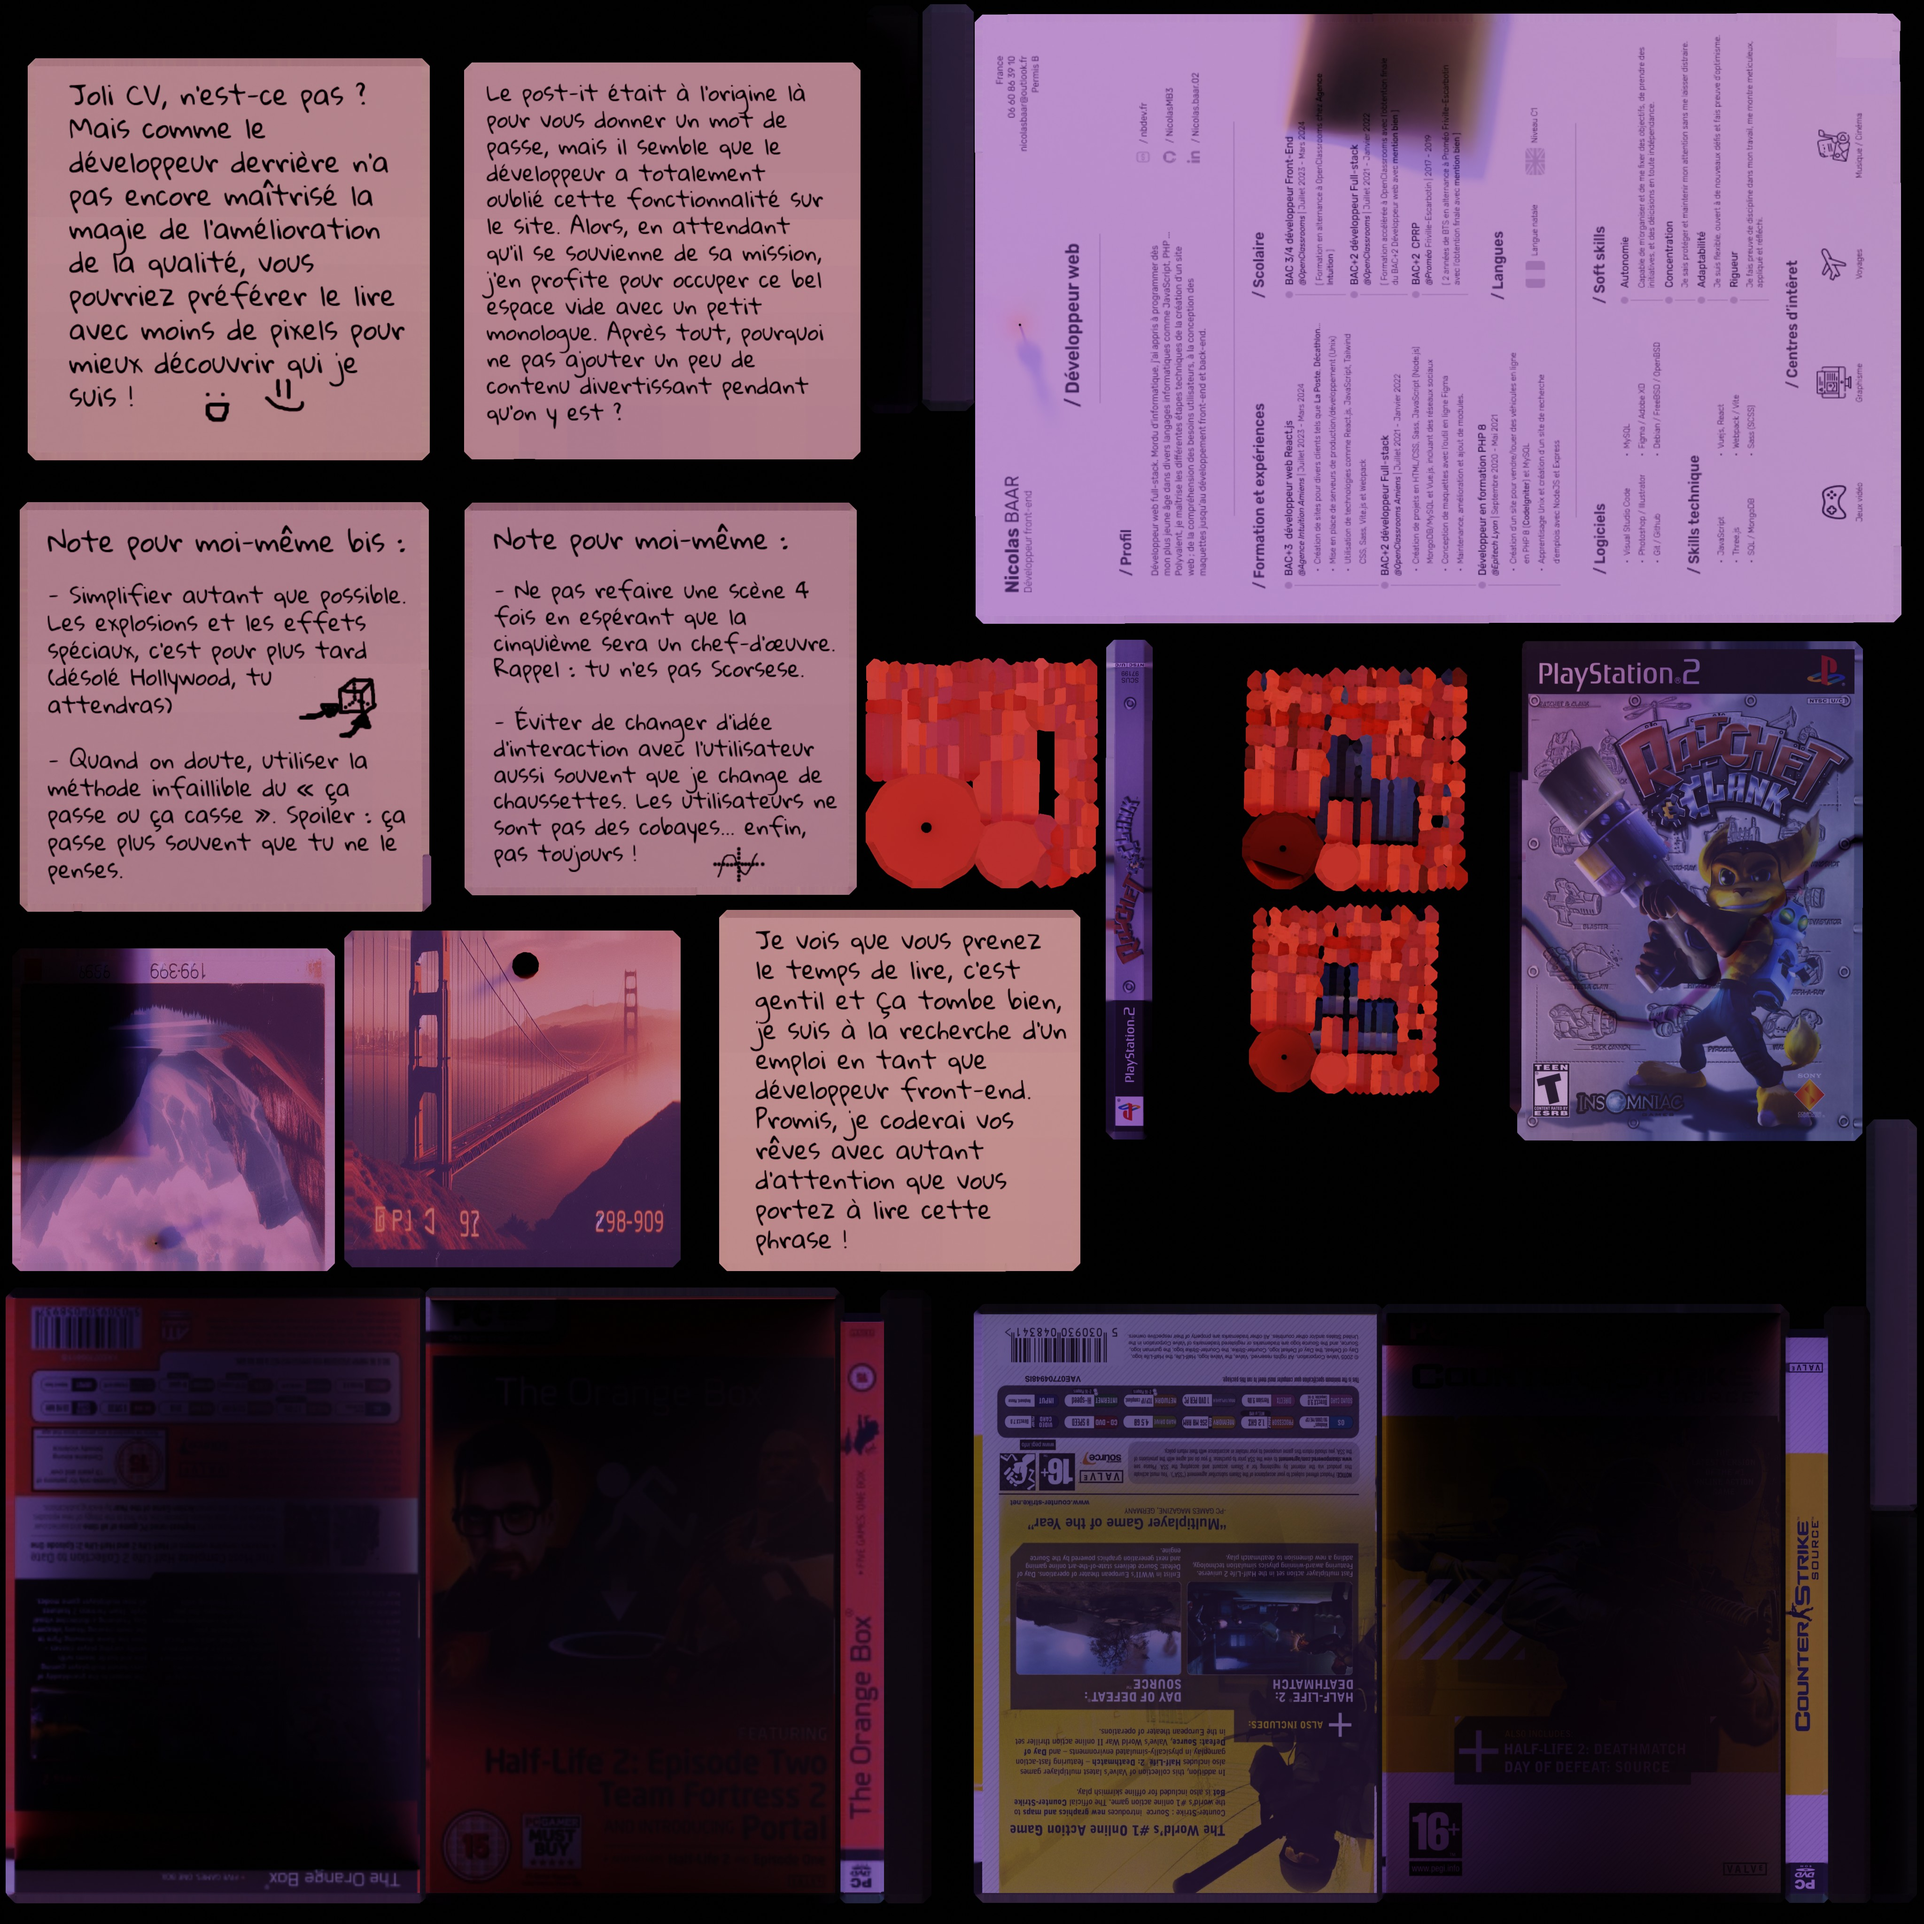
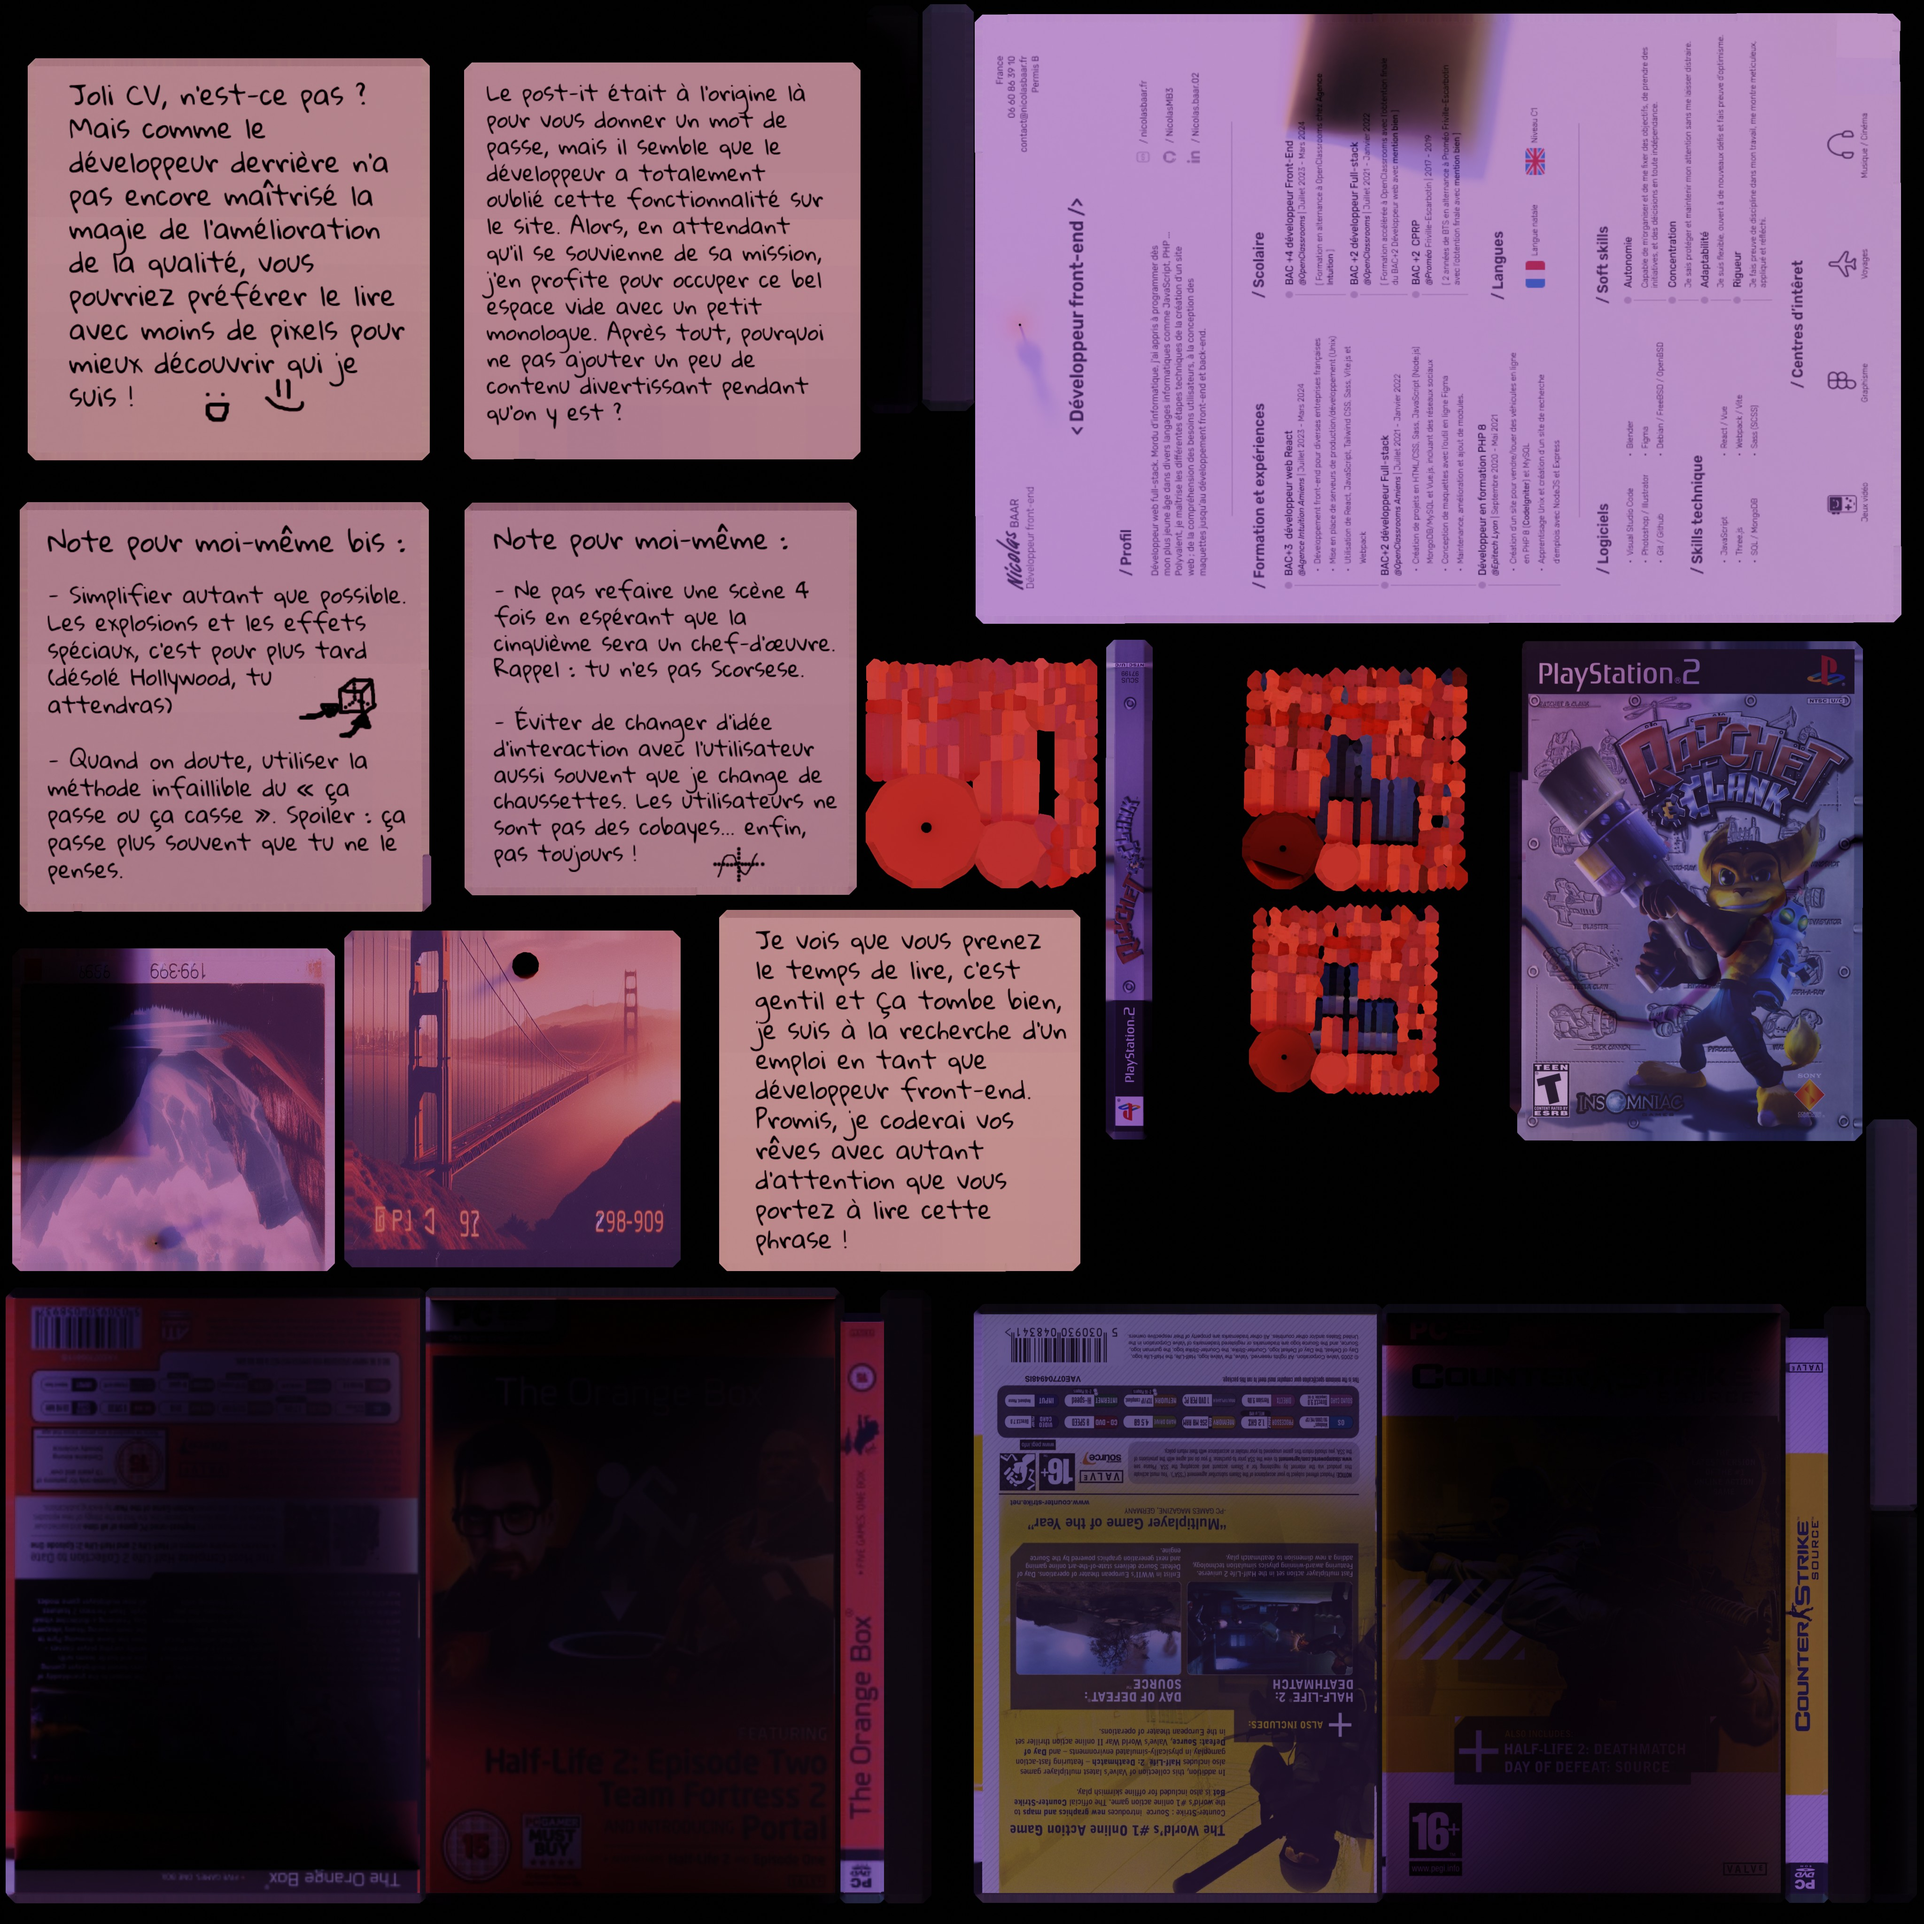
New iframe URL

diff --git a/src/Application/World/StickyNotes.js b/src/Application/World/StickyNotes.js
@@ -3,6 +3,7 @@ import * as THREE from "three";
 import InteractiveObject from "../Utils/InteractiveObject.js";
 import { CAMERA_SETTINGS } from "../variables.js";
 import TextEffect from "../Utils/TextEffect.js";
+import { gsap } from "gsap";
 
 export default class StickyNotes extends InteractiveObject {
     constructor() {
@@ -18,6 +19,7 @@ export default class StickyNotes extends InteractiveObject {
         this.initRaycaster(this.stickyNotes);
 
         window.addEventListener('keydown', (event) => this.onKeyDown(event));
+        window.addEventListener('click', (event) => this.onGlobalClick(event));
     }
 
     createStickyNotes() {
@@ -62,7 +64,7 @@ export default class StickyNotes extends InteractiveObject {
     handleStickyNoteActivation(stickyNoteIndex) {
         if (stickyNoteIndex === 2) { // StickyNote 3 index
             this.activateStickyNote3();
-            this.cursorMessage.style.display = "none";  // Cachez le message de sortie
+            this.cursorMessage.style.display = "none";
         } else {
             this.isStickyNote3Active = false;
         }
@@ -79,7 +81,7 @@ export default class StickyNotes extends InteractiveObject {
 
     activateStickyNote3() {
         const uiElement = document.querySelector('#ui');
-        uiElement.style.display = 'block';
+        gsap.to(uiElement, { opacity: 0.8, display: 'block', duration: 0.1 });
 
         const textEffect = new TextEffect(uiElement, {
             updateInterval: 5,
@@ -98,8 +100,8 @@ export default class StickyNotes extends InteractiveObject {
 
     downloadCV() {
         const link = document.createElement('a');
-        link.href = './cv.pdf';
-        link.download = 'cv.pdf';
+        link.href = '/prototype/cv_nicolasbaar.pdf';
+        link.download = 'cv_nicolasbaar.pdf';
         link.click();
     }
 
@@ -107,7 +109,7 @@ export default class StickyNotes extends InteractiveObject {
         super.onObjectExit();
         this.isObjectActive = false;
         const uiElement = document.querySelector('#ui');
-        uiElement.style.display = 'none';
+        gsap.to(uiElement, { opacity: 0, duration: 0.5, onComplete: () => { uiElement.style.display = 'none'; } });
         this.cursorMessage.style.display = 'none';
     }
 
@@ -125,5 +127,13 @@ export default class StickyNotes extends InteractiveObject {
             minY: 2500,
             maxY: 4000,
         };
+    }
+
+    onGlobalClick(event) {
+        const uiElement = document.querySelector('#ui');
+        if (this.isStickyNote3Active && !uiElement.contains(event.target)) {
+            gsap.to(uiElement, { opacity: 0, duration: 0.5, onComplete: () => { uiElement.style.display = 'none'; } });
+            this.isStickyNote3Active = false;
+        }
     }
 }

diff --git a/src/index.html b/src/index.html
@@ -3,7 +3,7 @@
 <head>
     <meta charset="UTF-8">
     <meta name="viewport" content="width=device-width, initial-scale=1.0">
-    <title>PrototypeOS</title>
+    <title>Prototype_</title>
     <link rel="apple-touch-icon" sizes="180x180" href="./favicon/apple-touch-icon.png">
     <link rel="icon" type="image/png" sizes="32x32" href="./favicon/favicon-32x32.png">
     <link rel="icon" type="image/png" sizes="16x16" href="./favicon/favicon-16x16.png">
@@ -11,18 +11,8 @@
     <link rel="mask-icon" href="./favicon/safari-pinned-tab.svg" color="transparent">
     <meta name="msapplication-TileColor" content="#da532c">
     <meta name="theme-color" content="#ffffff">
-    <!-- Google Tag Manager -->
-    <script>(function(w,d,s,l,i){w[l]=w[l]||[];w[l].push({'gtm.start':
-            new Date().getTime(),event:'gtm.js'});var f=d.getElementsByTagName(s)[0],
-            j=d.createElement(s),dl=l!='dataLayer'?'&l='+l:'';j.async=true;j.src=
-            'https://www.googletagmanager.com/gtm.js?id='+i+dl;f.parentNode.insertBefore(j,f);
-    })(window,document,'script','dataLayer','GTM-T6LW8P8Q');</script>
-    <!-- End Google Tag Manager -->
 </head>
 <body>
-    <!-- Google Tag Manager (noscript) -->
-    <noscript><iframe src="https://www.googletagmanager.com/ns.html?id=GTM-T6LW8P8Q" height="0" width="0" style="display:none;visibility:hidden"></iframe></noscript>
-    <!-- End Google Tag Manager (noscript) -->
     <div class="container">
         <div id="webgl"></div>
         <div id="css3d"></div>

diff --git a/src/Application/variables.js b/src/Application/variables.js
@@ -1,6 +1,6 @@
 export const IFRAME_WIDTH = 1055;
 export const IFRAME_HEIGHT = 920;
-export const URL_OS = 'https://floralwhite-cattle-984252.hostingersite.com/prototype/';
+export const URL_OS = 'https://nicolasbaar.fr/prototype/';
 export const WEBGL_CONTAINER_ID = '#webgl';
 export const CSS3D_CONTAINER_ID = '#css3d';
 export const SHADER_CONTAINER_ID = '#shader';

diff --git a/src/Application/World/Monitor.js b/src/Application/World/Monitor.js
@@ -117,8 +117,8 @@ export default class Monitor extends InteractiveObject {
         const glitchTextureMesh = this.createVideoTextureMesh(
             cssObject,
             "./textures/monitor/glitch.mp4",
-            0.04,
-            40.8
+            0.045,
+            0.8
         );
 
         this.scene.add(fingerprintsTextureMesh);
